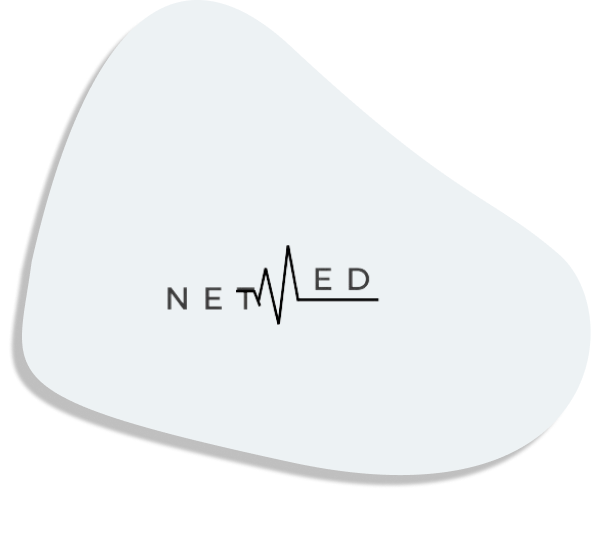
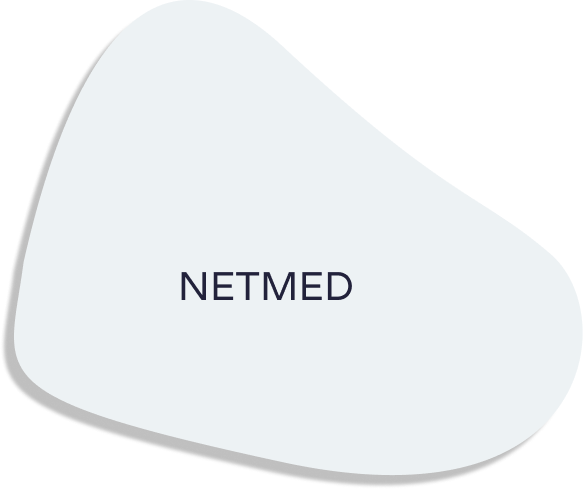
Alterando imagem de 'Quem Somos'

Changed region(s): [[0.0, 0.4898, 0.9262, 1.0], [0.2779, 0.4286, 0.6484, 0.6122], [0.8645, 0.7959, 0.8954, 0.8265]]

diff --git a/siteV2/index.html b/siteV2/index.html
@@ -292,7 +292,7 @@
         <div class="pg4 pg"> <!-- inicio - página onda -->
 
             <div class="faq">
-                <h3 class="pergFreq"> Perguntas Frequentes</h3>
+                <h3 class="pergFreq"> PERGUNTAS FREQUENTES</h3>
 
                 <div class="cardPerguntas">
                     <div class="pergunta">
@@ -416,7 +416,7 @@
     <footer>
 
         <div class="footerRedes">
-            
+
             <div class="logoFooter">
                 <p>NETMED</p>
             </div>

diff --git a/siteV2/css/style.css b/siteV2/css/style.css
@@ -372,9 +372,11 @@ main {
     justify-content: center;
     margin-right: 3vw;
     position: absolute;
-    width: 25vw;
+    width: 30vw;
     right: 3vw;
     top: 0;
+    font-weight: bold;
+    /* font-size: large; */
 }
 
 
@@ -382,8 +384,8 @@ main {
     content: "";
     position: absolute;
     background-color: #22223B;
-    height: 3px;
-    width: 100%;
+    height: 1px;
+    width: 127%;
     left: 0;
     bottom: 0px;
 }
